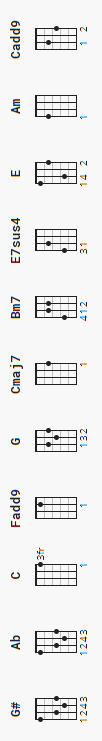
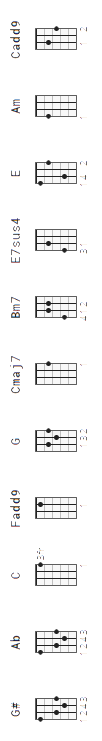
printable version of Celebration; add to NOTES

diff --git a/celebration.html b/celebration.html
@@ -2,7 +2,7 @@
     <title>Celebration, by Kool and the Gang</title>
     <style>
         pre {
-            font-size: 110%;
+            font-size: 100%;
         }
         #title {
             position: absolute;
@@ -11,7 +11,7 @@
             text-align: right;
         }
         img {
-            width: 150px;
+            width: 115px;
         }
     </style>
 </head>
@@ -19,59 +19,16 @@
     <div id="title">
         <h1>Celebration</h1>
         <h2>by Kool and the Gang</h2>
-        <div class="like_button_container"  data-commentid="1"></div>
+        <div class="date">1980</div>
         <p>
             <a href="https://tabs.ultimate-guitar.com/tab/kool-the-gang/celebration-ukulele-1346171">tabs.ultimate-guitar.com/tab/kool-the-gang/celebration-ukulele-1346171</a><br/>
         </p>
-        <div class="like_button_container"  data-commentid="2"></div>
         <p id="chords">
             <img src="celebration.png"/>
         </p>
     </div>
 <pre>
 
-    Written by: Kool & The Gang
-    From: “Celebrate!” (1980)
-     
-    Tabbed by: maguri
-    Tuning: soprano C
-     
-    The chords in the chorus might look a little confusing over the lyrics.
-    That's why I tabbed these parts out, so it becomes clearer.
-     
-    ---------------------------------------------------------------------------
-     
-    Capo: 1st fret
-    Play: G
-    Key: G# / Ab
-     
-    Tabbed out using C, F and G shapes. Capo 1st fret if you want to play
-    along to the original recording. Other than that, use the capo wherever
-    it suits your or the singer's vocal range best.
-     
-    ---------------------------------------------------------------------------
-     
-    Basic riff
-      C    Fadd9  C Fadd9 C   G         C    Fadd9  C Fadd9 C   G
-      1 + 2 + 3 + 4 +  1 + 2 + 3 + 4 +  1 + 2 + 3 + 4 +  1 + 2 + 3 + 4 +
-    A|----------------|----------------|----------------|----------------|
-    E|--0-0-1-1---0---|1--0---3--------|--0-0-1-1---0---|1--0---3--------|
-    C|--0-0-0-0---0---|0--0---2--------|--0-0-0-0---0---|0--0---2--------|
-    g|--0-0-0-0---0---|0--0---0--------|--0-0-0-0---0---|0--0---0--------|
-                                   Ya - hoo!           (It's a celebration)
-     
-    ---------------------------------------------------------------------------
-     
-    CHORDS
-              g-C-E-A
-    Fadd9     0-0-1-0
-    Cmaj7     0-0-0-2
-    Bm7       2-2-2-2
-    E7sus4    2-2-0-2
-    Cadd9     0-2-0-3
-     
-    ---------------------------------------------------------------------------
-     
     [Intro]
      
     | N.C. | % | % | % |
@@ -79,11 +36,10 @@
     | N.C. | % | % | % |
     (drums + brass lick)
     |  C  Fadd9 C | Fadd9 C G   |
-    (riff)
+    (riff*)
     |  C  Fadd9 C | Fadd9 C G   |
     (riff)
-     
-     
+
     [Chorus]
     C Fadd9 C    Fadd9 C    G
       Ce  - le - brate good times, come on
@@ -93,8 +49,7 @@
       Ce  - le - brate good times, come on
     C Fadd9   C Fadd9    C   G
                   Let's celebrate
-     
-     
+
     [Verse 1]
               Fadd9                C       G
     There's a party goin' on right here
@@ -104,8 +59,7 @@
     So bring your good times and your laughter too
     Fadd9                         C          G
        We're gonna celebrate your party with you, come on now
-     
-     
+
     [Bridge]
     Fadd9   C    G
         Celebration
@@ -115,8 +69,7 @@
         Celebration
     Fadd9                        C           G
        We're gonna celebrate and have a good time
-     
-     
+
     [Middle 8]
     Cmaj7        Bm7
     It's time to come together
@@ -124,12 +77,10 @@
     It's up to you, what's your pleasure?
     Am        Cadd9
     Everyone around the world, come on
-     
-     
+
     [Instrumental]
     |  C  Fadd9 C | Fadd9 C G   |
     |  C  Fadd9 C | Fadd9 C G   |
-     
      
     [Chorus]
     C Fadd9 C  Fadd9   C    G
@@ -140,7 +91,6 @@
       Ce  - le - brate good times, come on
     C Fadd9      C Fadd9   C   G
            Let's celebrate
-     
      
     [Chorus](variation)
     Fadd9                        C        G
@@ -152,7 +102,6 @@
             Fadd9                C       G
     Let's celebrate, it's all right, baby
      
-     
     Fadd9                        C        G
     We're gonna have a good time tonight
       (Ce-                  le-  bra-    tion)
@@ -164,13 +113,11 @@
       (Ce-                  le-  bra-    tion)
             Fadd9                C       G
     Let's celebrate, it's all right
-     
-     
+
     [Instrumental]
     |  C  Fadd9 C | Fadd9 C G   |
     |  C  Fadd9 C | Fadd9 C G   |
      
-     
     [Chorus]
     C Fadd9 C  Fadd9   C    G
       Ce  - le - brate good times, come on
@@ -181,7 +128,6 @@
     C Fadd9      C Fadd9   C   G
            Let's celebrate
      
-     
     [Chorus]
     C Fadd9 C  Fadd9   C    G
       Ce  - le - brate good times, come on
@@ -191,8 +137,7 @@
       Ce  - le - brate good times, come on
     C Fadd9      C Fadd9   C   G
            Let's celebrate
-     
-     
+
     [Outro] repeat chorus ad lib
     Come on and celebrate, good times, tonight
     (Celebrate good times, come on)
@@ -200,6 +145,19 @@
     Let's celebrate
     (Celebrate good times, come on)
     (Let's celebrate)...
+
+
+
+  *Basic riff
+    C    Fadd9  C Fadd9 C   G         C    Fadd9  C Fadd9 C   G
+    1 + 2 + 3 + 4 +  1 + 2 + 3 + 4 +  1 + 2 + 3 + 4 +  1 + 2 + 3 + 4 +
+  A|----------------|----------------|----------------|----------------|
+  E|--0-0-1-1---0---|1--0---3--------|--0-0-1-1---0---|1--0---3--------|
+  C|--0-0-0-0---0---|0--0---2--------|--0-0-0-0---0---|0--0---2--------|
+  g|--0-0-0-0---0---|0--0---0--------|--0-0-0-0---0---|0--0---0--------|
+                                 Ya - hoo!           (It's a celebration)
+
+
 </pre>
     <div class="like_button_container"></div>
     <!-- Load React. -->

diff --git a/README.md b/README.md
@@ -18,6 +18,8 @@ https://raw.githack.com/kaicarver/uketabs/master/heaven_on_their_minds.html
 
 ## Notes
 
+### Why: for printing
+
 There are lots of ukulele scores out there,
 but I find I have problems printing them.
 
@@ -29,6 +31,23 @@ any of these common monospace scores easily printable.
 
 The chord charts are also easy to display
 in a nice format on the side, ideally with fingering.
+
+### chord notation
+
+the linked score has nice text chord notation:
+
+```text
+       g-C-E-A
+Fadd9  0-0-1-0  1
+Cmaj7  0-0-0-2  1
+Bm7    2-2-2-2
+       4-2-2-0  4 1 2
+E7sus4 2-2-0-2  1 2 3
+       4-2-0-0  4 1 2
+Cadd9  0-2-0-3  1 2
+```
+
+but it lacked the fingering info, so I added it.
 
 ## TODOs
 
